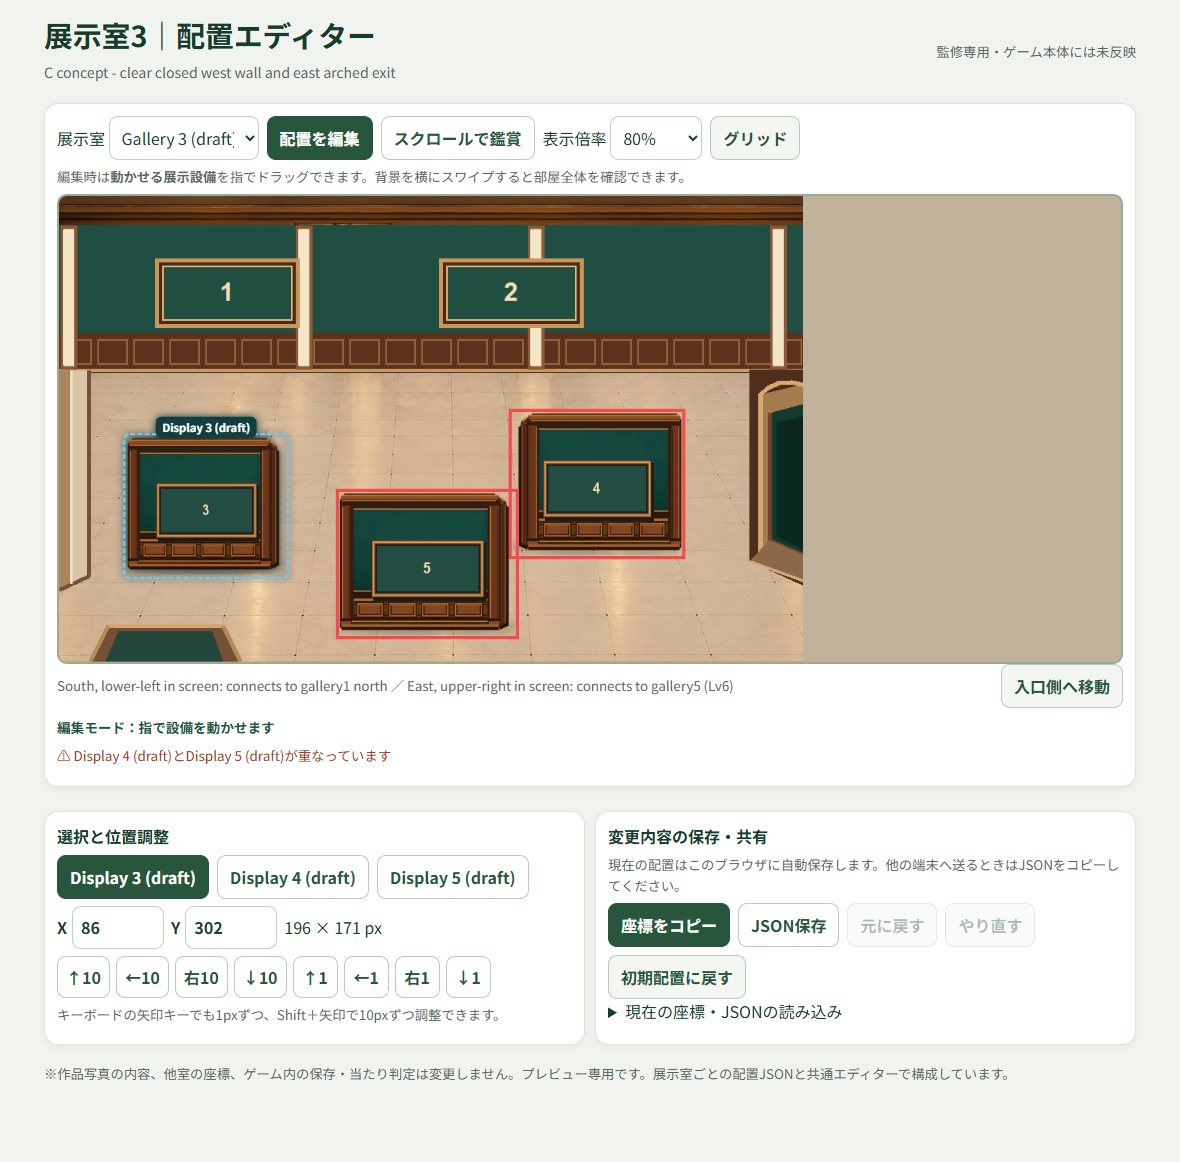
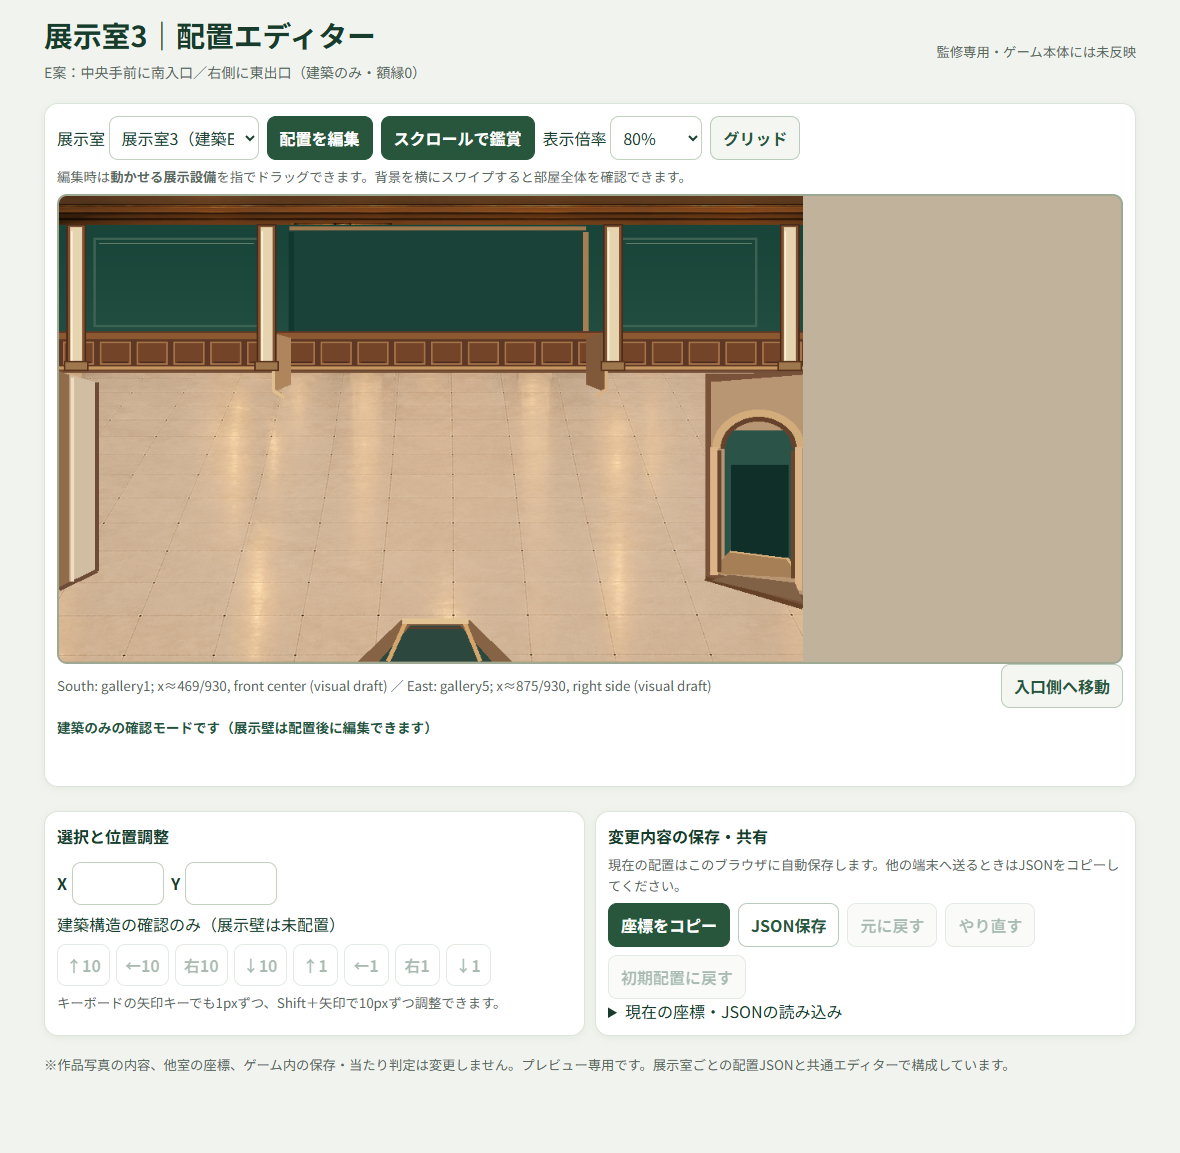
feat(a18): gallery3 architecture E with centered south entrance and clear east exit

diff --git a/editor.js b/editor.js
@@ -55,8 +55,11 @@ function render(){
  for(const btn of document.querySelectorAll('[data-pick]')){
   const a=btn.dataset.pick===selected;btn.classList.toggle('primary',a);btn.setAttribute('aria-pressed',String(a));
  }
- const o=items[selected];$('coord-x').value=o.x;$('coord-y').value=o.y;
- $('dims').textContent=o.w+' × '+o.h+' px';
+ const o=items[selected];
+ for(const axis of ['x','y']){const field=$('coord-'+axis);field.value=o?o[axis]:'';field.disabled=!o;}
+ $('dims').textContent=o?(o.w+' × '+o.h+' px'):'建築構造の確認のみ（展示壁は未配置）';
+ for(const btn of document.querySelectorAll('[data-move]'))btn.disabled=!o;
+ for(const id of ['reset','show-import','apply-import'])$(id).disabled=!o;
  $('json-preview').textContent=JSON.stringify(exportData(),null,2);
  $('undo').disabled=history.length===0;$('redo').disabled=future.length===0;
  warnings();
@@ -68,7 +71,8 @@ function commit(before,notice){
 }
 function choose(id){if(objectIds.includes(id)){selected=id;render();status(room.objects.find(x=>x.id===id).label+'を選択しました');}}
 function change(id,target){
- const before=copy(items),o=items[id];
+ const o=items[id];if(!o)return;
+ const before=copy(items);
  const x=Number(target.x),y=Number(target.y);
  if(!Number.isFinite(x)||!Number.isFinite(y))return;
  o.x=clamp(Math.round(x),0,room.size.width-o.w);
@@ -76,17 +80,18 @@ function change(id,target){
  commit(before,'座標を更新しました');
 }
 function setMode(m){
+ if(!objectIds.length)m='pan';
  mode=m;
  $('edit-mode').setAttribute('aria-pressed',String(m==='edit'));
  $('pan-mode').setAttribute('aria-pressed',String(m==='pan'));
  render();
- status(m==='edit'?'編集モード：指で設備を動かせます':'鑑賞モード：横にスクロールできます');
+ status(!objectIds.length?'建築のみの確認モードです（展示壁は配置後に編集できます）':m==='edit'?'編集モード：指で設備を動かせます':'鑑賞モード：横にスクロールできます');
 }
 function zoomTo(z){
  zoom=z;$('stage').style.transform='scale('+z+')';
  $('outer').style.width=(room.size.width*z)+'px';$('outer').style.height=(room.size.height*z)+'px';
 }
-function toEntrance(){const e=$('scroller');e.scrollLeft=e.scrollWidth-e.clientWidth;}
+function toEntrance(){const e=$('scroller');e.scrollLeft=Number.isFinite(room.previewFocusX)?clamp(room.previewFocusX*zoom-e.clientWidth/2,0,e.scrollWidth-e.clientWidth):e.scrollWidth-e.clientWidth;}
 function createImage(path,z){
  const e=document.createElement('img');e.src=path;e.alt='';e.draggable=false;e.className='art';
  e.style.width=room.size.width+'px';e.style.height=room.size.height+'px';e.style.zIndex=z;
@@ -123,7 +128,7 @@ async function loadRoom(id){
  const entry=catalog.rooms.find(r=>r.id===id);if(!entry)throw Error('展示室が見つかりません');
  const res=await fetch(entry.config,{cache:'no-store'});if(!res.ok)throw Error('展示室データの取得に失敗しました '+res.status);
  const next=await res.json();
- if(next.schema!=='a18-gallery-editor/room-v1'||next.id!==id||!next.objects?.length)throw Error('展示室の定義が不正です');
+ if(next.schema!=='a18-gallery-editor/room-v1'||next.id!==id||!Array.isArray(next.objects))throw Error('展示室の定義が不正です');
  room=next;objectIds=room.objects.map(o=>o.id);start=Object.fromEntries(room.objects.map(o=>[o.id,defObj(o)]));
  items=copy(start);
  try{const saved=localStorage.getItem(key());if(saved)items=normalized(JSON.parse(saved));}catch(e){console.warn('Invalid cached state',e);}
@@ -141,7 +146,8 @@ async function loadRoom(id){
   btn.addEventListener('click',()=>choose(obj.id));pick.append(btn);
  }
  layerRoot.append(createImage(room.foreground,10));
- zoomTo(Number($('zoom').value));render();setMode('edit');
+ $('zoom').value=(!objectIds.length&&window.innerWidth<500)?'.35':'.8';
+ zoomTo(Number($('zoom').value));render();setMode(objectIds.length?'edit':'pan');
  history=[];future=[];render();requestAnimationFrame(toEntrance);
 }
 const catalog=await (async()=>{
@@ -158,16 +164,16 @@ for(const r of catalog.rooms){
 $('room-select').addEventListener('change',e=>loadRoom(e.target.value).catch(err=>errors(err.message)));
 for(const btn of document.querySelectorAll('[data-move]')){
  btn.addEventListener('click',()=>{
-  const [dx,dy]=btn.dataset.move.split(',').map(Number),o=items[selected];change(selected,{x:o.x+dx,y:o.y+dy});
+  const [dx,dy]=btn.dataset.move.split(',').map(Number),o=items[selected];if(!o)return;change(selected,{x:o.x+dx,y:o.y+dy});
  });
 }
 for(const axis of ['x','y'])$('coord-'+axis).addEventListener('change',e=>{
- change(selected,{...items[selected],[axis]:Number(e.target.value)});
+ if(!items[selected])return;change(selected,{...items[selected],[axis]:Number(e.target.value)});
 });
 document.addEventListener('keydown',e=>{
  if(e.target.closest('input,select,textarea,button,summary'))return;
  const p={ArrowUp:[0,-1],ArrowDown:[0,1],ArrowLeft:[-1,0],ArrowRight:[1,0]}[e.key];
- if(p&&mode==='edit'){e.preventDefault();const o=items[selected],v=e.shiftKey?10:1;
+ if(p&&mode==='edit'&&items[selected]){e.preventDefault();const o=items[selected],v=e.shiftKey?10:1;
   change(selected,{x:o.x+p[0]*v,y:o.y+p[1]*v});}
 });
 $('edit-mode').onclick=()=>setMode('edit');$('pan-mode').onclick=()=>setMode('pan');

diff --git a/index.html b/index.html
@@ -46,7 +46,7 @@ pre{background:#e7eee6;border-radius:9px;padding:10px;font-size:12px;white-space
 <label>展示室 <select id="room-select" class="field" style="width:auto;max-width:150px" aria-label="展示室"></select></label>
 <button class="btn primary" id="edit-mode" aria-pressed="true">配置を編集</button>
 <button class="btn" id="pan-mode" aria-pressed="false">スクロールで鑑賞</button>
-<label>表示倍率 <select class="field" id="zoom" aria-label="表示倍率"><option value=".5">50%</option><option value=".65">65%</option><option value=".8" selected>80%</option><option value="1">100%</option></select></label>
+<label>表示倍率 <select class="field" id="zoom" aria-label="表示倍率"><option value=".35">35%（全体）</option><option value=".5">50%</option><option value=".65">65%</option><option value=".8" selected>80%</option><option value="1">100%</option></select></label>
 <button class="btn ghost" id="grid-toggle" aria-pressed="false">グリッド</button>
 </div>
 <p class="note">編集時は<strong>動かせる展示設備</strong>を指でドラッグできます。背景を横にスワイプすると部屋全体を確認できます。</p>

diff --git a/qa/gallery3_architecture_E.py b/qa/gallery3_architecture_E.py
@@ -1,0 +1,116 @@
+"""Gallery3 E: architecture-only draft for review (not approved/game-ready)."""
+from pathlib import Path
+from PIL import Image, ImageDraw, ImageFont, ImageFilter
+import json, math, random
+
+root = Path(__file__).resolve().parents[1]
+outdir = root / "rooms" / "gallery3"
+w, h = 930, 582
+src = Image.open(root / "rooms" / "gallery1" / "architecture.png").convert("RGB")
+im = Image.new("RGB", (w, h), "#dbc8ac")
+im.paste(src.crop((0, 218, w, h)), (0, 218))
+d = ImageDraw.Draw(im)
+
+# The existing cornice is reused exactly; the wall below is redrawn WITHOUT art.
+im.paste(src.crop((0, 0, w, 36)), (0, 0))
+d = ImageDraw.Draw(im)
+for y in range(36, 171):
+    t = (y - 36) / 135
+    d.line((0, y, 929, y), fill=(int(24+9*t), int(68+10*t), int(57+7*t)))
+# Distinctive deep-set center bay, with solid north wall (NO north door).
+d.rectangle((288, 43, 658, 173), fill="#1b4239")
+d.line((288, 40, 658, 40), fill="#a0784d", width=5)
+d.line((290, 45, 290, 173), fill="#11382f", width=7)
+d.line((658, 45, 658, 173), fill="#a77e51", width=7)
+# Side bay molding and north-wall pilasters remain structural (not decoration).
+for x1, x2 in [(43, 250), (702, 872)]:
+    d.rectangle((x1, 52, x2, 163), outline="#3c6253", width=3)
+    d.line((x1+7, 59, x2-7, 59), fill="#6b8468", width=1)
+# Low wood paneling with individual visible recessed panels.
+d.rectangle((0, 169, 929, 218), fill="#5e3824")
+d.rectangle((0, 171, 929, 178), fill="#8c5831")
+for x in range(5, 930, 46):
+    d.rectangle((x, 182, min(x+38, 928), 210), fill="#744429", outline="#a47349", width=2)
+    d.line((x+4, 207, min(x+34,928), 207), fill="#4a2b20", width=2)
+d.line((0, 214, 929, 214), fill="#c49660", width=4)
+d.line((0, 219, 929, 219), fill="#755036", width=3)
+# Deep-set center has two architecturally angled returns to emphasize the U-shape.
+d.polygon([(267,171),(289,177),(289,235),(269,244)], fill="#af855d")
+d.polygon([(659,177),(683,170),(681,244),(659,235)], fill="#80593b")
+d.line([(267,171),(267,242),(281,251)], fill="#dfbe8f", width=4)
+d.line([(683,170),(683,242),(671,251)], fill="#d7b183", width=4)
+# Four load-bearing pilasters, arranged to frame this bay.
+for x in [21, 259, 692, 913]:
+    d.rectangle((x-12, 35, x+12, 217), fill="#805231", outline="#4a2a19", width=2)
+    d.rectangle((x-7, 39, x+7, 210), fill="#e6d4b0")
+    d.line((x-6, 44, x-6, 207), fill="#fff1d7", width=2)
+    d.rectangle((x-15, 206, x+15, 218), fill="#9f774d", outline="#59351e", width=2)
+# Left edge is sealed: wall with visible near and far edges, no false door.
+d.polygon([(0,219),(47,233),(47,468),(0,491)],fill="#d0bda2")
+d.polygon([(0,219),(12,223),(12,484),(0,491)],fill="#916c4b")
+d.line([(47,233),(47,468),(0,491)],fill="#6d4c37",width=5)
+d.line((16,227,16,481),fill="#f1dcc0",width=4)
+# South gallery1 entrance: centered on the ACTUAL south portal (~469/930).
+# A threshold OPEN to the camera edge; neither side gets clipped.
+d.polygon([(427,530),(513,530),(565,581),(374,581)],fill="#866345")
+d.polygon([(439,537),(501,537),(540,581),(400,581)],fill="#2b473e")
+for x in [432, 507]:
+    d.line((x,534, int(470+(x-470)*1.54),581),fill="#d4a66c",width=5)
+d.line((429,531,511,531),fill="#e2c394",width=7)
+d.line((437,539,503,539),fill="#5e3e2d",width=2)
+# East gallery5 exit: complete arch VISIBLE within canvas, centered at x~875.
+# The side wall reaches the right edge; the doorway is cut THROUGH it.
+d.polygon([(808,222),(929,220),(929,513),(808,477)],fill="#795339")
+d.polygon([(815,232),(929,223),(929,498),(815,470)],fill="#b99673")
+d.polygon([(832,293),(919,293),(919,474),(832,457)],fill="#2b5348")
+d.rectangle((840,336,911,465),fill="#102f29")
+# the interior floor recedes toward right, making clear this is passable space
+d.polygon([(838,444),(912,453),(927,477),(813,471)],fill="#a77f56")
+d.line([(839,444),(910,453),(924,471)], fill="#d6ad78",width=3)
+# full arch and both jambs, unlike the clipped D concept
+d.arc((817,267,931,361), 180, 360, fill="#d2ac7a", width=10)
+d.arc((827,276,921,355), 180, 360, fill="#66422d", width=6)
+d.line((818,314,818,473),fill="#dbb588",width=10)
+d.line((924,314,924,492),fill="#dbb588",width=9)
+d.line((825,318,825,469),fill="#69472f",width=5)
+d.line((917,318,917,477),fill="#69472f",width=5)
+d.line((808,477,929,513),fill="#654127",width=6)
+# A subtle shadow on east portal floor shows crossing direction.
+d.polygon([(838,473),(919,483),(929,507),(816,480)],fill="#816246")
+# Save the *clean architecture* alone.
+dest = outdir / "gallery3_architecture_only_E.png"
+im.save(dest)
+
+# Separate human-readable guide image: annotation NOT used in app/art.
+guide = im.convert("RGBA")
+layer = Image.new("RGBA", (w,h), (0,0,0,0))
+a = ImageDraw.Draw(layer)
+font = ImageFont.truetype("C:/Windows/Fonts/meiryo.ttc", 22)
+small = ImageFont.truetype("C:/Windows/Fonts/meiryo.ttc", 17)
+a.rounded_rectangle((333,465,603,506),10,fill=(22,45,38,205),outline=(232,205,145,245),width=2)
+a.text((467,484),"南入口 → 展示室1",font=small,anchor="mm",fill="white")
+a.line([(469,507),(469,546)],fill="#f3d290",width=5)
+a.polygon([(469,552),(459,538),(479,538)],fill="#f3d290")
+a.rounded_rectangle((646,243,900,280),10,fill=(22,45,38,210),outline=(232,205,145,245),width=2)
+a.text((774,261),"東出口 → 展示室5",font=small,anchor="mm",fill="white")
+a.line([(862,283),(862,310)],fill="#f3d290",width=4)
+a.rounded_rectangle((66,335,314,376),10,fill=(25,50,42,190))
+a.text((190,354),"西・北は通路なし",font=small,anchor="mm",fill="white")
+guide = Image.alpha_composite(guide,layer)
+guide.save(outdir/"gallery3_architecture_E_guide.png")
+
+# Draft-only editor config. Keep D & older concepts untouched.
+config = outdir/"room.json"
+room = json.loads(config.read_text(encoding="utf-8"))
+assert room["id"] == "gallery3" and room["layoutRevision"] in ("gallery3-architecture-only-D-20261028", "gallery3-architecture-only-E-20261028")
+room["background"] = "rooms/gallery3/gallery3_architecture_only_E.png"
+room["objects"] = []
+room["entrance"] = "South: gallery1; x≈469/930, front center (visual draft)"
+room["exit"] = "East: gallery5; x≈875/930, right side (visual draft)"
+room["subtitle"] = "E案：中央手前に南入口／右側に東出口（建築のみ・額縁0）"
+room["previewFocusX"] = 469
+room["layoutRevision"] = "gallery3-architecture-only-E-20261028"
+room["status"] = "unapproved architecture-only proposal; gameplay not implemented"
+room["notes"] = "Visually aligned to museum-navigation.js south/east portal directions. No frames placed by design. Five fixtures remain required and unpositioned. No walk/collision/depth QA."
+config.write_text(json.dumps(room,ensure_ascii=False,indent=2)+"\n",encoding="utf-8")
+print("OK E architecture and annotated guide:",dest,im.size)

diff --git a/qa/check_gallery3_live.py b/qa/check_gallery3_live.py
@@ -19,7 +19,10 @@ try:
    assert res.status==200
    page.wait_for_function('window.__A18_LAYOUT_EDITOR__ && window.__A18_LAYOUT_EDITOR__.getState().roomId === "gallery3"')
    state=page.evaluate('window.__A18_LAYOUT_EDITOR__.getState()')
-   assert len(state['objects'])==3,state
+   # E is architectural study: deliberately zero fixtures until layout approval.
+   assert len(state['objects'])==0,state
+   assert state['roomId']=='gallery3',state
+   assert page.locator('#zoom').input_value()==('.35' if width==390 else '.8')
    assert all(e.evaluate('e=>e.complete && e.naturalWidth>0') for e in page.locator('#stage img').all())
    assert not errors,errors
    page.screenshot(path=str(root/'rooms/gallery3'/f'editor_gallery3_{width}.png'),full_page=True)

diff --git a/rooms/gallery3/LAYOUT_E_REVIEW_20261028.md b/rooms/gallery3/LAYOUT_E_REVIEW_20261028.md
@@ -1,0 +1,28 @@
+# A18 展示室3｜建築レイアウト E案（監修前）
+
+作成：2026-10-28／**未承認・ゲーム本体未反映**
+
+## 今回の目的
+前回D案は南入口が画面左下、東出口は右端で切れており、通路と建築構造が分かりにくかった。前回のC案も展示壁数・出入口の見え方を含め不採用。旧テーマや旧配色の採用は前提にしない。
+
+## 正しい部屋接続と画面への対応
+- roomId=3（表示名「展示室3」）。内部IDは絶対に再採番しない。
+- 南：展示室1（roomId=1）への双方向通路。実装の展示室側 south判定中心x≈297/589 ⇒ 930pxキャンバスでx≈469。E案では**画面下部中央**にし、左右を切らない。
+- 東：展示室5（roomId=5）への双方向通路。実装の展示室側 east判定中心x≈556/589 ⇒ x≈878、y≈381/482 ⇒ y≈460。E案では**右側面の完整アーチ**を表示する。
+- 西・北：部屋リンク無し。ドアに見える見せかけの開口を置かない。
+- 930×582px、木・緑・石床の既存室と同一テイストを保ちつつ、北側中央に奥まった壁面を設けて展示室1・2との差を作る。
+- 今回は**建築の輪郭のみ**。額縁・独立展示壁・案内台・女性スタッフの座標を確定しない。将来、固定展示枠は計5枠（旧仕様の変更なし）。
+
+## プレビュー
+- 実際のゲーム背景として読み込まないラフ：`gallery3_architecture_only_E.png`
+- 説明ラベルを重ねた監修向け画像（**ゲームには使わない**）：`gallery3_architecture_E_guide.png`
+- 配置プレビュー：`room.json`（objects=[] で初期表示）。展示室3のみ、スマホ幅で全体が見える35%倍率から表示する。
+- D案 `gallery3_architecture_only_D.png`、A～C案は履歴として保存し、無断削除しない。
+
+## 次の監修判定
+建築形状（奥壁の凹み・左右の壁・南入口・東出口）が気持ちよく成立するかをユーザーが確認。
+形状承認後に5枠／スタッフなどの配置へ進み、展示室4・5へ展開する。
+今回の監修用表示テストはゲーム側の歩行・当たり判定・描画順・保存QAではない。
+
+## Git
+対象：`a18-gallery-layout-editor` の `work/a18-gallery-layout-preview-20261028`。未承認案なので `issue`、`main`、ゲーム本体にはマージしない。
